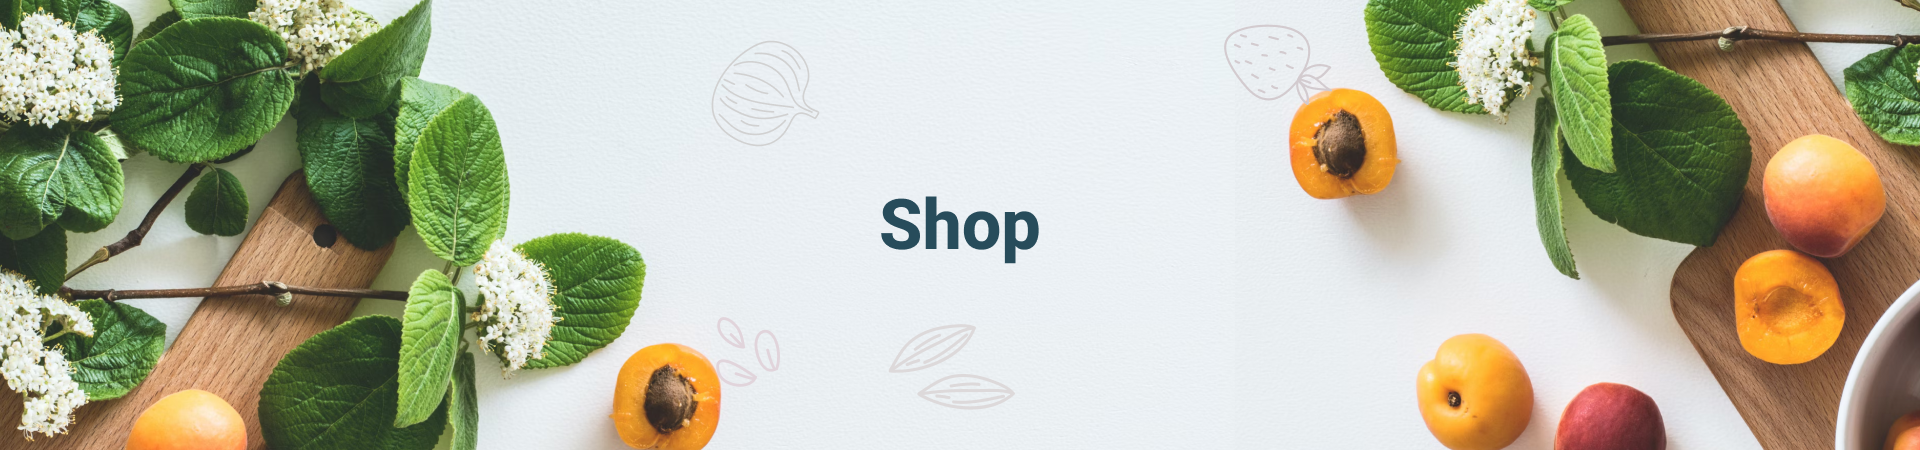
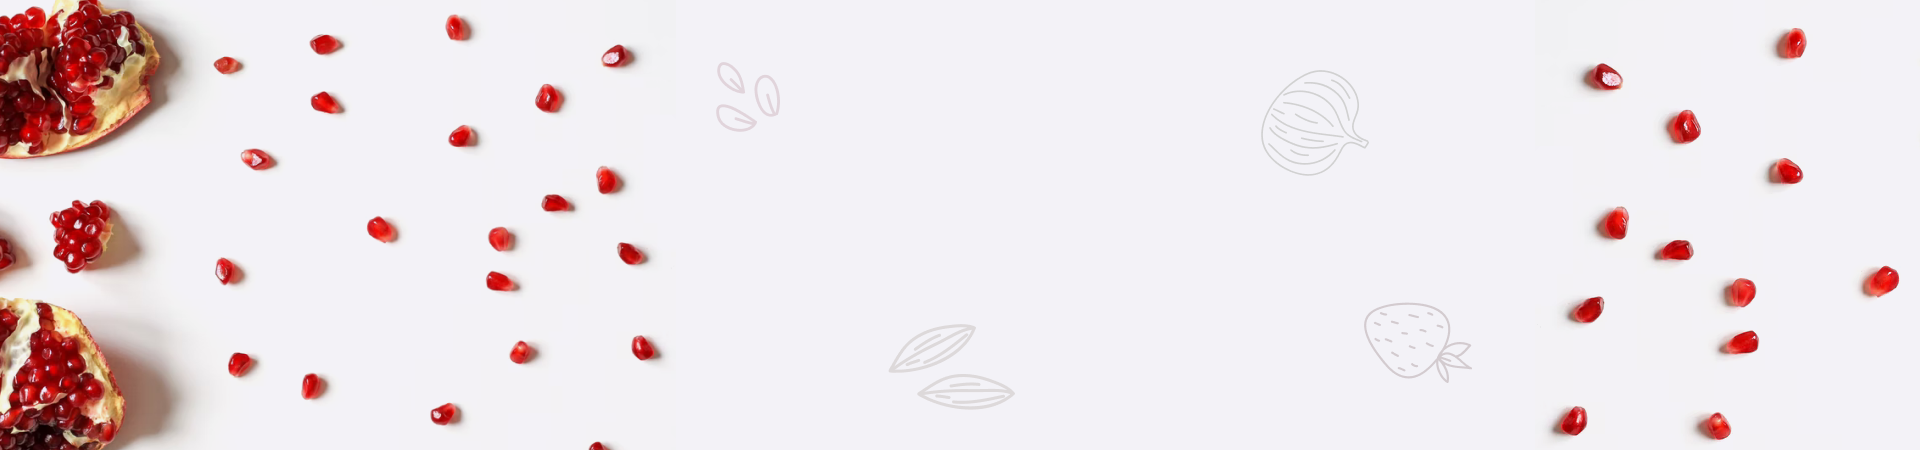
-feat: shop_page_single update bg picture

diff --git a/shop_single_page/main.css b/shop_single_page/main.css
@@ -1,3 +1,6 @@
+:root {
+  color-scheme: only light !important;
+}
 *{
   box-sizing: border-box;
   padding: 0;
@@ -210,12 +213,28 @@ label{
 
 /* Конец header ---------------------------------------- */
 
-.first-block{
-  background: url('./assets/Banner.png') top / cover;
-  position: relative; 
-  height: 450px;
-  max-width: 1440px;
-  min-width: 320px;
+.first-block {
+    background: url('./assets/Banner.png') top / cover;
+    position: relative;
+    height: 450px;
+    max-width: 1440px;
+    min-width: 320px;
+    display: flex;
+    justify-content: center;
+    align-items: center;
+}
+
+.text-overlay h1 {
+    max-width: 512px;
+    color: #274C5B;
+    font-family: Roboto;
+    font-size: 2.8125rem; /* 45px */
+    font-weight: 700;
+    line-height: 3.65625rem; /* 58.5px */
+    letter-spacing: 0.0225rem;
+    text-transform: capitalize;
+    text-align: center;
+    margin: 0;
 }
 
 .first-block-bg-image{

diff --git a/shop_single_page/single_shop_page.html b/shop_single_page/single_shop_page.html
@@ -37,7 +37,10 @@
         </div>
     </header>
     <main>
-        <section class="first-block" >
+        <section class="first-block">
+            <div class="text-overlay">
+                <h1>Shop Single</h1>
+            </div>
         </section>
         <section class="second-block">
             <div class="base-middle-lable our-products-label">

diff --git a/main_page/main.css b/main_page/main.css
@@ -1,3 +1,6 @@
+:root {
+  color-scheme: only light !important;
+}
 *{
   box-sizing: border-box;
   padding: 0;

diff --git a/shop_page/main.css b/shop_page/main.css
@@ -1,3 +1,6 @@
+:root {
+  color-scheme: only light !important;
+}
 *{
   box-sizing: border-box;
   padding: 0;
